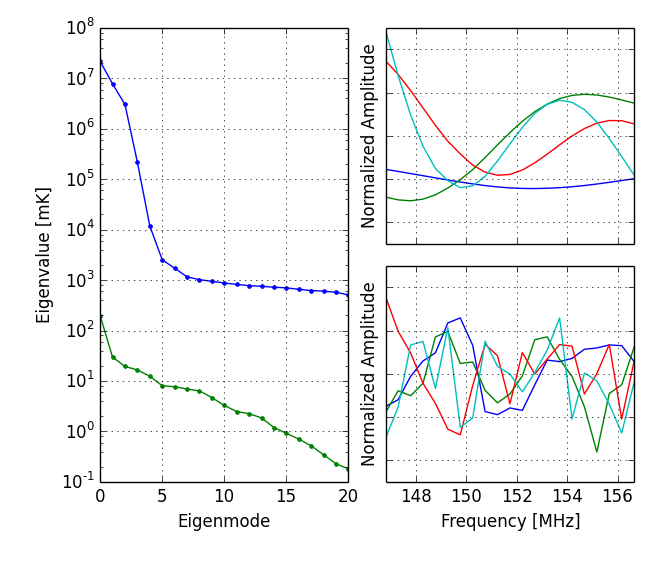
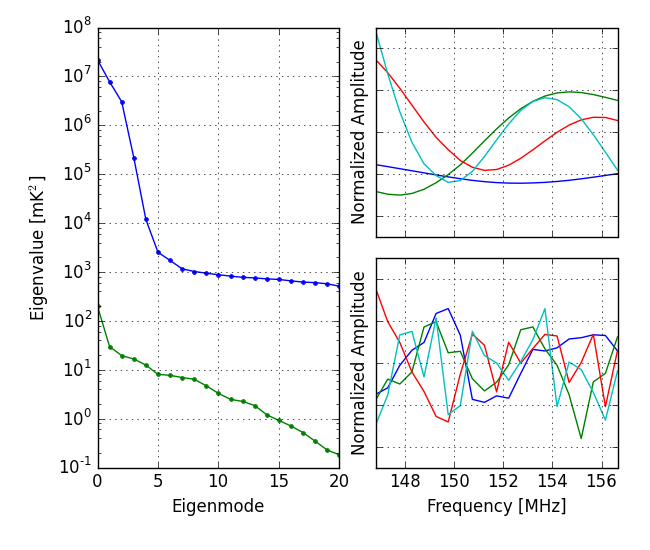
fix eig figure label. fix some adrian comments.

diff --git a/psa64_pspec_ver2.tex b/psa64_pspec_ver2.tex
@@ -272,7 +272,6 @@ spectrum analysis.}
 \includegraphics[width=2\columnwidth,trim=0cm 7cm 5cm 2cm,clip]{plots/data_flow_chart.pdf}
 \caption
 {
-[XXXremove 100 bootstraps]
 The stages of power-spectrum analysis. Black lines indicate data flow; red lines indicate
 Monte Carlo simulations used to 
 measure signal loss. Yellow boxes indicate stages that by construction have negligible signal loss.
@@ -294,7 +293,6 @@ down to the horizon with a full-width half-maximum of $60^{\circ}$, is summarize
 and \citet{pober_et_al2012}.  
 For this analysis, we use only the XX and YY polarization cross-products.
 
-[XXXdid we omit north south baselines. 2016 ??]
 As shown in Figure \ref{fig:antenna_positions}, PAPER-64 employs
 a highly redundant antenna layout where multiple baselines measure
 the same Fourier mode on the sky (P12a; P14).
@@ -354,7 +352,6 @@ described in Section \ref{sec:observations}.  The map is centered at 6:00 hours 
 \end{figure*}
 
 
-[XXX check crhonological order of authors.]
 %%%%%%%%%%%%%%%%%%%%%%%%%%%%%%%%%%%%%%%%%%%%%%%%%%%%%%%%%%%%%%%%%%%%%%%%%%%%%%%%
 \section{Calibration}\label{sec:calib}
 
@@ -761,11 +758,10 @@ time interval used to measure the bandpass. We average each mode together and
 fit a 9th degree polynomial. Using this as our measured bandpass for this
 simulated signal, we finally compare the power spectrum from the output of the
 simulated signal to the input power spectrum as a function fo $k$-mode.  We
-find that between $-0.06 < k < 0.06$, the signal loss is less than $3\%$ and at
+find that between $-0.06 < k < 0.06$, the limit of our fiducial , the signal loss is less than $3\%$ and at
 the mode right outside the horizon is $2\times{10^{-7}}\%$. We apply the latter
 correction factor for all modes outside of the horizon to the final power
 spectrum.
-[XXX remind reader what k the horizon is at.]
 
 
 %These lists were My bullet points.
@@ -972,8 +968,7 @@ important caveat is that it neglects the beam asymmetry  between the two linear
 polarization states. This mismatch can cause polarization leakage from Stokes
 Q into Stokes I, thus contaminating  our measurement of the power spectrum with any polarized emission from the sky.
 This effect for PAPER, as shown in \citet{moore_et_al2013}, leaks 4\% of Q in to
-I.  We do not correct for this effect, but discuss some effects of 
-polarization leakage in Section \ref{sec:discussion}. [XXX sentence that it is positive power, so this is conservative limit]
+I.  We take the conservative approach and do not correct for this effect, noting that the leakage of Q in to I will result in positive power increasing our limits.
 
 Foreground removal techniques discussed in the literature include spectral
 polynomial fitting \citep{wang_et_al2006,bowman_et_al2009,liu_et_al2009},
@@ -1837,8 +1832,6 @@ three different baselines in a redundant group before/after delay filtering, res
 \begin{figure}\centering
 \includegraphics[width=\columnwidth]{plots/eig.png}
 \caption{
-[XXX: Are the units correct here? The eigenvalues of a covariance matrix should
-have units of mK$^2$, not mK.]
 Eigenvalue spectrum of covariance matrices (left) empirically estimated 
 from visibilities before (blue) and after (green) delay filtering.
 The four strongest eigenmodes of the filtered/unfiltered data are plotted

diff --git a/plots/plot_eig.py b/plots/plot_eig.py
@@ -78,7 +78,7 @@ fig.subplots_adjust(left=.15, top=.95, bottom=.15, wspace=.15, hspace=.1, right=
 p.subplot(121)
 p.grid(True)
 p.xlabel('Eigenmode')
-p.ylabel('Eigenvalue [mK]')
+p.ylabel(r'Eigenvalue [mK$^{2}$]')
 
 ax = p.subplot(222)
 p.setp(ax.get_xticklabels(), visible=False)
